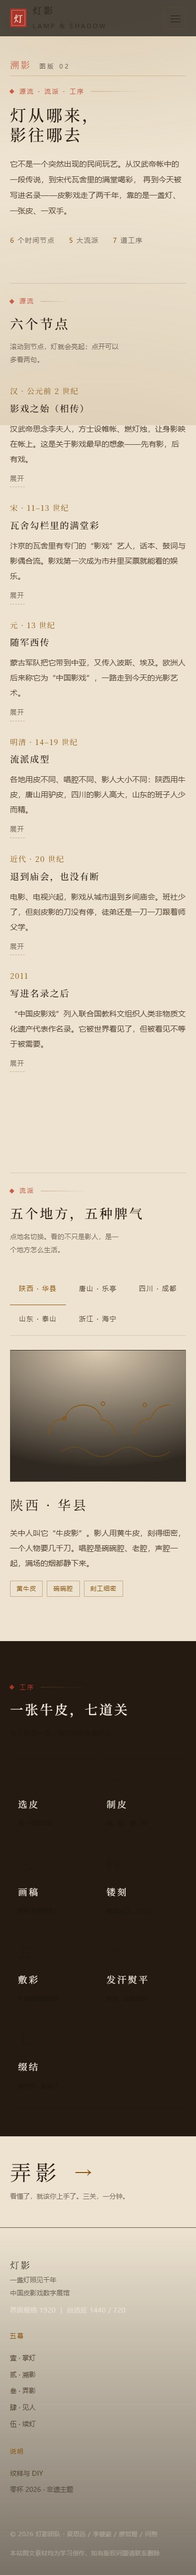
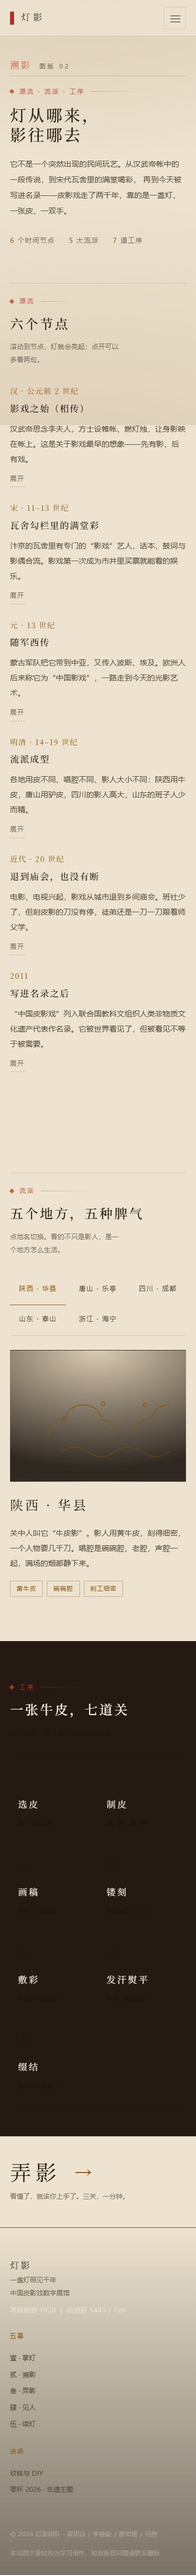
style: 导航重做——纸底、朱条标志、清晰的当前页态
- 导航底从暗色 rgba(12,9,6,.70) 改为纸色 rgba(237,227,208,.88)，修掉纸本主题下残留的"黑胶带"
- 标志：去掉红方块与英文副行，改为一根 8×26 朱条 + 宋体书名，字距 .34em
- 菜单项：统一墨色 + 68% 不透明，悬停到 100%；当前页转朱红并常驻 2px 下划线（原来只有 1px 悬停线，几乎看不见）
- 分隔线由金改 hair，纸面上更克制
- 回归：30 组审计 0 报错 0 溢出

Changed region(s): [[0.0, 0.0, 1.0, 0.0311]]

diff --git a/web/assets/css/base.css b/web/assets/css/base.css
@@ -126,7 +126,7 @@ h3 { font-size: var(--fs-h3); line-height: 1.5; letter-spacing: .1em; }
   height: var(--nav-h);
   display: flex;
   align-items: center;
-  background: rgba(12, 9, 6, .70);
+  background: rgba(237, 227, 208, .88);
   -webkit-backdrop-filter: blur(14px);
   backdrop-filter: blur(14px);
   border-bottom: 1px solid var(--hair);
@@ -319,3 +319,64 @@ html.is-static [data-stagger].is-in > * { animation: none; }
 .mt-24 { margin-top: var(--s5); }
 .measure { max-width: 56ch; }
 .sprite-defs { position: absolute; width: 0; height: 0; overflow: hidden; }
+
+/* ---------- 导航：纸本版 ---------- */
+.nav { border-bottom: 1px solid var(--hair); }
+.nav__inner { min-height: 76px; }
+
+/* 标志：一根朱条 + 宋体书名，替掉原来的红方块 + 英文 */
+.brand { gap: 14px; }
+.brand__seal {
+  width: 8px;
+  height: 30px;
+  background: var(--cinnabar);
+  color: transparent;
+  font-size: 0;
+  border-radius: 0;
+  box-shadow: none;
+}
+.brand__seal::after { display: none; }
+.brand__name {
+  font-size: var(--fs-h3);
+  letter-spacing: .3em;
+  color: var(--paper);
+  line-height: 1;
+}
+.brand__sub {
+  margin-top: 6px;
+  font-size: var(--fs-micro);
+  letter-spacing: .32em;
+  color: var(--paper-faint);
+}
+
+/* 菜单项：字重与色阶拉开，当前页给朱色下划线 */
+.nav__links { gap: clamp(22px, 2.6vw, 44px); }
+.nav__links a {
+  font-size: var(--fs-small);
+  letter-spacing: .22em;
+  color: var(--paper);
+  opacity: .68;
+  padding: 10px 0;
+  transition: opacity var(--t-fast) var(--ease), color var(--t-fast) var(--ease);
+}
+.nav__links a:hover { opacity: 1; }
+.nav__links a::after {
+  height: 2px;
+  background: var(--cinnabar);
+  bottom: 2px;
+}
+.nav__links a[aria-current="page"] {
+  opacity: 1;
+  color: var(--cinnabar);
+}
+.nav__links a[aria-current="page"]::after {
+  transform: scaleX(1);
+  transform-origin: left;
+}
+@media (max-width: 860px) {
+  .nav__links a { opacity: 1; }
+}
+/* 标志去掉英文副行，只留朱条 + 书名 */
+.brand__sub { display: none; }
+.brand__seal { height: 26px; align-self: center; }
+.brand__name { letter-spacing: .34em; }
